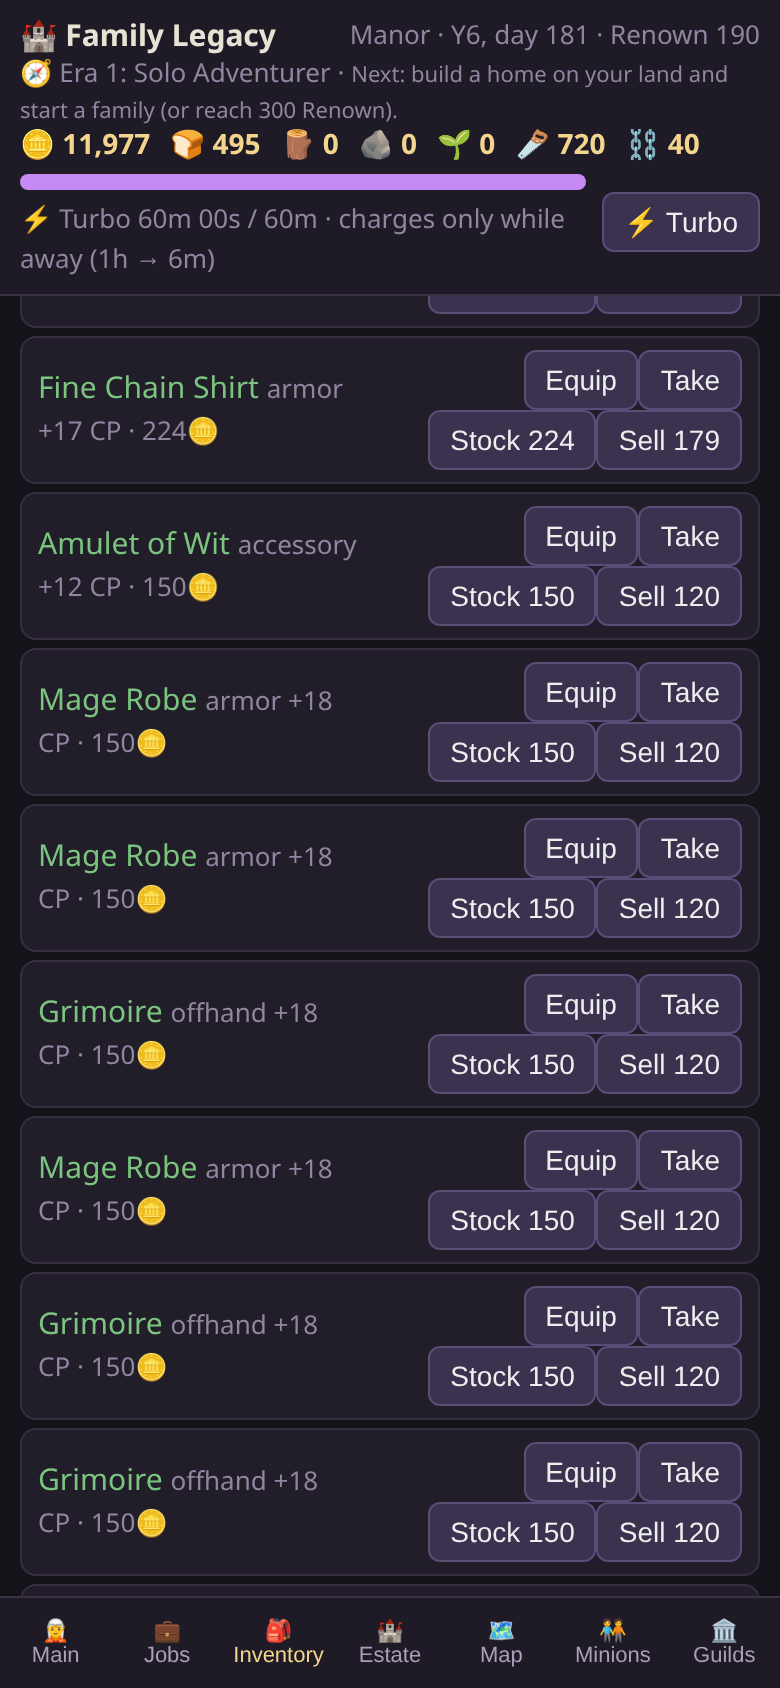
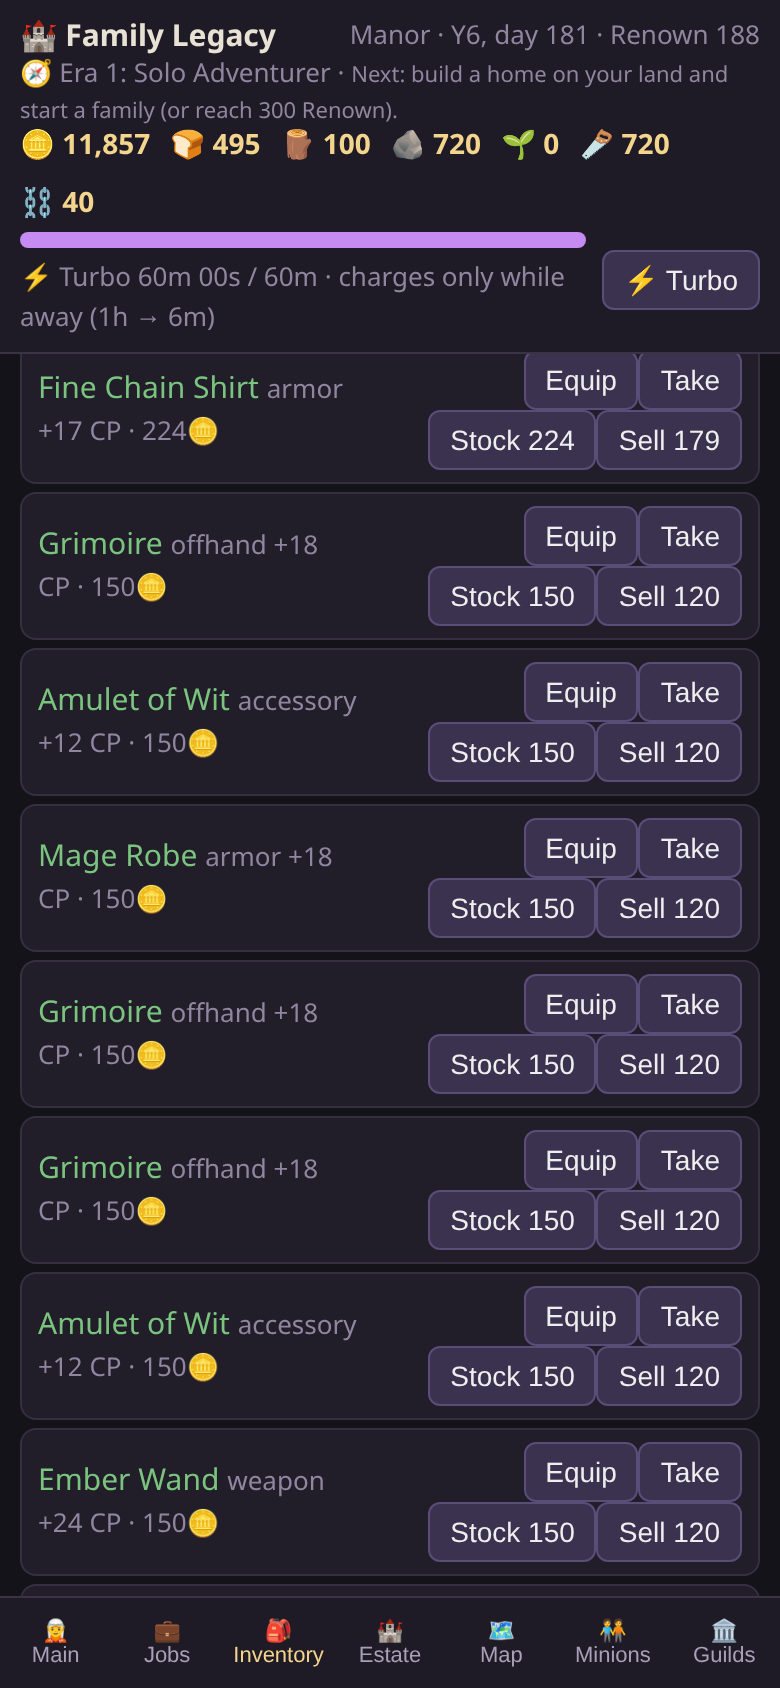
Update Family Legacy with resource reserves and station pauses.
Replace the static game with the latest build, including resource reserves and station pause toggles, and keep the existing Pages workflow.

diff --git a/js/main.js b/js/main.js
@@ -86,13 +86,14 @@ function landShop(where){ return D.estate.lands.filter(l=>!s.land.includes(l.id)
 function pieceRow(p,btn){ return `<div class="row" style="margin:3px 0"><span>${p.icon} ${p.name} <span class="muted">${p.desc||Object.entries(p.bonus).map(([k,v])=>k+': '+v).join(', ')}</span></span>${btn}</div>`; }
 function estate(){ let h=`<div class="card"><div class="row"><b>🗺 Land</b><span>${E.landUsed(s)}/${E.landSlots(s)} land slots used</span></div><div class="muted">${s.land.map(id=>D.estate.lands.find(l=>l.id===id).name).join(', ')}</div></div>${landShop()}`;
  h+=`<div class="card"><b>📦 Capacity</b><div class="muted">🍞 ${fmt(s.res.food)}/${fmt(E.foodCap(s))} food · materials cap ${fmt(E.matCap(s))} each</div>
- <div class="muted">${Object.entries(D.estate.resourceTiers).map(([n,t])=>`<b>T${n} ${t.name}:</b> ${t.res.length?t.res.map(k=>`${RI[k]||''}${k} ${fmt(s.res[k]||0)}`).join(' · '):t.planned.join(', ')}`).join('<br>')}</div><div class="muted">Family eats ${E.living(s).length}🍞/day · followers eat ${E.minionFood(s)}🍞/day · beds ${E.living(s).length}/${E.bedrooms(s)} · follower bunks ${E.housingUsed(s,'bunk')}/${E.housingCap(s,'bunk')}</div></div>`;
+ <div class="muted">${Object.entries(D.estate.resourceTiers).map(([n,t])=>`<b>T${n} ${t.name}:</b> ${t.res.length?t.res.map(k=>`${RI[k]||''}${k} ${fmt(s.res[k]||0)}`).join(' · '):t.planned.join(', ')}`).join('<br>')}</div><div class="row" style="flex-wrap:wrap;gap:6px;margin:4px 0"><span class="muted">Keep in reserve (stations never use below):</span>${Object.keys(E.DEFAULT_RESERVE).map(k=>`<label class="muted">${RI[k]||''}${k} <input type="number" min="0" step="10" style="width:56px" data-a="reserve" data-v="${k}" value="${E.reserveOf(s,k)}"></label>`).join('')}</div><div class="muted">Family eats ${E.living(s).length}🍞/day · followers eat ${E.minionFood(s)}🍞/day · beds ${E.living(s).length}/${E.bedrooms(s)} · follower bunks ${E.housingUsed(s,'bunk')}/${E.housingCap(s,'bunk')}</div></div>`;
  const syn=E.allSynergies(s); h+=`<h3>✨ Active synergies (${syn.length})</h3>`+(syn.length?syn.map(y=>`<div>${y.icon} <b>${y.name}</b> <span class="muted">${y.desc} · in ${E.structDef(s.structures.find(x=>x.uid===y.where).type).name}</span></div>`).join(''):'<div class="muted">Place related pieces in the same building: '+D.estate.synergies.map(y=>y.pieces.map(p=>E.pieceDef(p).name).join(' + ')).join(' · ')+'</div>');
  h+=`<h3>🛖 Buildings & stations</h3>`;
  s.structures.forEach((st,k)=>{ const d=E.structDef(st.type), nx=D.estate.structures.find(x=>x.upgradeFrom===st.type), ui=E.upgradeIssue(s,st.uid); const syn=E.activeSynergies(st);
   h+=`<div class="card"><div class="row"><b>${d.icon} ${d.name} #${k+1}</b><span class="muted">Lv ${d.level||1} (+${((d.level||1)-1)*5}% to furniture) · ${st.pieces.length}/${d.slots} slots · ${d.land} land</span></div>${d.builtin?`<div class="muted">Built-in: houses ${d.builtin.housing.bunk} followers</div>`:''}${syn.length?`<div>${syn.map(y=>`<span class="tb" style="border-color:#d9b44a">${y.icon} ${y.name}</span>`).join('')}</div>`:''}
   ${st.pieces.map(pid=>{const p=E.pieceDef(pid);const rates=E.processRates(s,st,pid);const t=E.pieceTier(pid),nt=D.estate.pieceTiers[t+1],ui=E.pieceUpIssue(s,st.uid,pid);
-   return `<div class="row" style="margin:3px 0"><span>${p.icon} ${p.name} <span class="tb">${E.tierName(pid)}</span> <span class="muted">${p.desc} · ×${E.pieceMult(st,pid).toFixed(2)} effect${rates.length?' · '+rates.map(r=>r.rate+' '+r.out+'/day').join(', '):''}</span></span><span>${nt?`<button class="b" data-a="uppiece" data-v="${st.uid}" data-w="${pid}" ${ui?'disabled':''}>→ ${nt.name} ${costStr(nt.cost)}</button>`:''}<button class="b" data-a="unpiece" data-v="${st.uid}" data-w="${pid}">Remove</button></span></div>`}).join('')}
+   const pz=E.isPaused(s,st.uid,pid);
+   return `<div class="row" style="margin:3px 0;${pz?'opacity:.55':''}"><span>${p.icon} ${p.name} <span class="tb">${E.tierName(pid)}</span>${rates.length?` <span class="tb" style="border-color:${pz?'#c55':'#5c5'}">${pz?'⏸ Paused':'▶ Running'}</span>`:''} <span class="muted">${p.desc} · ×${E.pieceMult(st,pid).toFixed(2)} effect${rates.length?' · '+rates.map(r=>r.rate+' '+r.out+'/day').join(', '):''}</span></span><span>${rates.length?`<button class="b" data-a="toggle" data-v="${st.uid}" data-w="${pid}">${pz?'Resume':'Pause'}</button>`:''}${nt?`<button class="b" data-a="uppiece" data-v="${st.uid}" data-w="${pid}" ${ui?'disabled':''}>→ ${nt.name} ${costStr(nt.cost)}</button>`:''}<button class="b" data-a="unpiece" data-v="${st.uid}" data-w="${pid}">Remove</button></span></div>`}).join('')}
   ${E.freeSlots(s,st)>0?`<div class="row" style="margin-top:4px"><select data-a="pickpiece" data-v="${st.uid}"><option value="">+ Place a piece…</option>${s.pieceStore.filter((x,i,a)=>a.indexOf(x)===i).map(pid=>`<option value="store:${pid}">📦 ${E.pieceDef(pid).name} [${E.tierName(pid)}] (from storage)</option>`).join('')}${[...D.estate.pieces,...D.furniture].map(p=>`<option value="${p.id}" ${E.placeIssue(s,st.uid,p.id)?'disabled':''}>${p.icon} ${p.name} – ${costStr(p.cost)}${E.placeIssue(s,st.uid,p.id)==='already here'?' (here)':E.pieceLock(s,p)?' 🔒 '+E.pieceLock(s,p):''}</option>`).join('')}</select></div>`:''}
   ${nx?`<div class="row" style="margin-top:4px"><span class="muted">Upgrade → ${nx.name} (${nx.slots} slots, ${nx.land} land)</span><button class="b" data-a="upstruct" data-v="${st.uid}" ${ui?'disabled':''}>${ui&&ui!=='cannot afford'?'🔒 '+ui:costStr(nx.cost)}</button></div>`:''}</div>`; });
  h+=`<div class="muted">Build new:</div>`+D.estate.structures.filter(d=>!d.upgradeFrom).map(d=>{const iss=E.structIssue(s,d.id);return `<div class="card row" style="padding:6px 8px;margin:4px 0"><span>${d.icon} ${d.name} <span class="muted">${d.land} land · ${d.desc}</span></span><button class="b" data-a="struct" data-v="${d.id}" ${iss?'disabled':''}>${iss&&iss!=='cannot afford'?'🔒 '+iss:costStr(d.cost)}</button></div>`}).join('');
@@ -213,13 +214,14 @@ document.addEventListener('click',e=>{ const t=e.target.closest('[data-tab]'); i
  const b=e.target.closest('button[data-a],a[data-a]'); if(!b) return; const a=b.dataset.a, v=b.dataset.v, m=E.active(s);
  ({turbo:()=>E.toggleTurbo(s),train:()=>E.setAction(s,{type:'train',target:v}),sheet:()=>{sheetOpen=!sheetOpen},job:()=>E.setAction(s,{type:'job',target:v}),activity:()=>E.setAction(s,{type:'activity',target:v}),rest:()=>E.setAction(s,{type:'rest'}),
   quest:()=>{E.setAction(s,{type:'quest',target:v});},court:()=>E.setAction(s,{type:'court',target:v}),gift:()=>E.giveGift(s,v,b.dataset.w),propose:()=>E.propose(s,v),
-  evolve:()=>E.evolve(s,m,v),build:()=>E.build(s,v),struct:()=>E.buildStructure(s,v),upstruct:()=>E.upgradeStructure(s,v),unpiece:()=>E.removePiece(s,v,b.dataset.w),uppiece:()=>E.upgradePiece(s,v,b.dataset.w),equip:()=>E.equip(s,m,v),equipbag:()=>E.equip(s,m,v,'bag'),unequip:()=>E.unequip(s,m,v),tobag:()=>E.moveItem(s,m,v,true),tovault:()=>E.moveItem(s,m,v,false),buy:()=>E.buyItem(s,v,b.dataset.w),sellres:()=>E.sellRes(s,v,b.dataset.w,10),rumor:()=>E.rumor(s,v),sellallres:()=>E.sellAllRes(s,v,b.dataset.w),bulksell:()=>E.sellMany(s,curList()),bulklist:()=>curList().forEach(id=>E.listForSale(s,id)),list:()=>E.listForSale(s,v),unlist:()=>E.unlist(s,v),craft:()=>E.setAction(s,{type:'craft',target:v}),mequip:()=>E.equipMinion(s,v,b.dataset.w),munequip:()=>E.unequipMinion(s,v,b.dataset.w),land:()=>E.buyLand(s,v),room:()=>E.addRoom(s,v),unroom:()=>E.removeRoom(s,+v),advjoin:()=>E.joinAdventurers(s,m),advrank:()=>E.advRankUp(s,m),advbuy:()=>E.buyAdvItem(s,m,v),join:()=>E.joinGuild(s,m,v),rankup:()=>E.rankUp(s,m,v||undefined),gbuy:()=>E.buyGuildItem(s,m,v),hire:()=>E.hire(s,v,b.dataset.w),dismiss:()=>E.dismiss(s,v),gather:()=>E.setAction(s,{type:'gather',target:v}),sell:()=>E.sell(s,v),switch:()=>E.switchTo(s,+v),
+  evolve:()=>E.evolve(s,m,v),build:()=>E.build(s,v),struct:()=>E.buildStructure(s,v),upstruct:()=>E.upgradeStructure(s,v),unpiece:()=>E.removePiece(s,v,b.dataset.w),uppiece:()=>E.upgradePiece(s,v,b.dataset.w),toggle:()=>E.togglePiece(s,v,b.dataset.w),equip:()=>E.equip(s,m,v),equipbag:()=>E.equip(s,m,v,'bag'),unequip:()=>E.unequip(s,m,v),tobag:()=>E.moveItem(s,m,v,true),tovault:()=>E.moveItem(s,m,v,false),buy:()=>E.buyItem(s,v,b.dataset.w),sellres:()=>E.sellRes(s,v,b.dataset.w,10),rumor:()=>E.rumor(s,v),sellallres:()=>E.sellAllRes(s,v,b.dataset.w),bulksell:()=>E.sellMany(s,curList()),bulklist:()=>curList().forEach(id=>E.listForSale(s,id)),list:()=>E.listForSale(s,v),unlist:()=>E.unlist(s,v),craft:()=>E.setAction(s,{type:'craft',target:v}),mequip:()=>E.equipMinion(s,v,b.dataset.w),munequip:()=>E.unequipMinion(s,v,b.dataset.w),land:()=>E.buyLand(s,v),room:()=>E.addRoom(s,v),unroom:()=>E.removeRoom(s,+v),advjoin:()=>E.joinAdventurers(s,m),advrank:()=>E.advRankUp(s,m),advbuy:()=>E.buyAdvItem(s,m,v),join:()=>E.joinGuild(s,m,v),rankup:()=>E.rankUp(s,m,v||undefined),gbuy:()=>E.buyGuildItem(s,m,v),hire:()=>E.hire(s,v,b.dataset.w),dismiss:()=>E.dismiss(s,v),gather:()=>E.setAction(s,{type:'gather',target:v}),sell:()=>E.sell(s,v),switch:()=>E.switchTo(s,+v),
   class:()=>E.chooseClass(s,s.pendingClass[0],v),close:()=>{report=null},
   export:()=>{prompt('Copy your save:',btoa(unescape(encodeURIComponent(E.serialize(s)))));},
   import:()=>{const t=prompt('Paste save:'); if(t){try{s=E.deserialize(decodeURIComponent(escape(atob(t))));}catch(err){alert('Invalid save');}}},
   reset:()=>{ if(s.gameOver||confirm('Abandon this lineage and start over?')){ s=E.newGame(); report=null; } }})[a]?.();
  save(); lastHTML=''; render(); });
 document.addEventListener('change',e=>{ const el=e.target; const id=+el.dataset.v; const m=s.members.find(x=>x.id===id);
+ if(el.dataset.a==='reserve'){ E.setReserve(s,el.dataset.v,el.value); }
  if(el.dataset.a==='invf'){ invF[el.dataset.v]=el.value; }
  if(el.dataset.a==='mequipsel'&&el.value){ E.equipMinion(s,el.dataset.v,el.value); }
  if(el.dataset.a==='pickpiece'&&el.value){ const st=el.value.startsWith('store:'); E.placePiece(s,el.dataset.v,el.value.replace('store:',''),st); }

diff --git a/js/engine.js b/js/engine.js
@@ -32,7 +32,7 @@ export function newGame(now=Date.now()){ const _s=_newGame(now); _s.land=[]; _s.
 function _newGame(now){
   const s={v:SAVE_VERSION,day:0,nextId:1,members:[],activeId:1,head:1,
     res:{coin:50,food:60,wood:0,stone:0,herbs:0},revealed:[],buildings:{},furniture:[],vault:['rusty_sword','padded_vest'],
-    log:[],turbo:{charge:0,on:false},lastSave:now,forSale:[],saleProg:0,unlocks:[],doneQuests:[],specialGranted:[],minions:[],repLevel:0,gameOver:false,suitors:[],renown:0,deeds:[],acc:0,pendingClass:[]};
+    log:[],turbo:{charge:0,on:false},lastSave:now,reserve:{...DEFAULT_RESERVE},paused:[],forSale:[],saleProg:0,unlocks:[],doneQuests:[],specialGranted:[],minions:[],repLevel:0,gameOver:false,suitors:[],renown:0,deeds:[],acc:0,pendingClass:[]};
   for(const b of D.buildings) s.buildings[b.id]=b.start;
   const f=newMember(s,{age:15}); s.members.push(f);
   f.action={type:'train',target:'swordsmanship',progress:0};
@@ -141,8 +141,14 @@ export function operatorLvl(s,skill){ if(!skill) return 0; const sp=ES().skillPr
 export const skillSpeed=(s,p)=>1+ES().skillProcess.speedPerLvl*operatorLvl(s,p&&p.skill);
 export const skillYield=(s,p)=>1+ES().skillProcess.yieldPerLvl*operatorLvl(s,p&&p.skill);
 export const resTier=k=>+(Object.entries(ES().resourceTiers).find(([,t])=>t.res.includes(k))||[0])[0];
-function processDay(s,mul=1){ for(const st of s.structures||[]){ const syn=activeSynergies(st); for(const p of st.pieces.map(id=>scaledPiece(st,id))) for(const pr0 of (p&&p.bonus.processes)||[]){ const pr={...pr0,rate:pr0.rate*skillSpeed(s,p)}; const yl=skillYield(s,p);
-  let n=pr.rate*mul*syn.reduce((a,y)=>a*((y.bonus.processMult||{})[pr.out]||1),1); for(const[k,v]of Object.entries(pr.in)) n=Math.min(n,(s.res[k]||0)/v); if(n<=0) continue;
+export const DEFAULT_RESERVE={wood:50,stone:50,ore:0,copperore:0,hides:0,herbs:0};
+export const reserveOf=(s,k)=>((s.reserve||{})[k]||0);
+export function setReserve(s,k,n){ if(!(k in DEFAULT_RESERVE)) return false; s.reserve[k]=Math.max(0,Math.floor(+n||0)); return true; }
+const pkey=(uid,id)=>uid+':'+baseId(id);
+export const isPaused=(s,uid,id)=>(s.paused||[]).includes(pkey(uid,id));
+export function togglePiece(s,uid,id){ const k=pkey(uid,id); const i=s.paused.indexOf(k); if(i>=0) s.paused.splice(i,1); else s.paused.push(k); return i<0; }
+function processDay(s,mul=1){ for(const st of s.structures||[]){ const syn=activeSynergies(st); for(const p of st.pieces.filter(id=>!isPaused(s,st.uid,id)).map(id=>scaledPiece(st,id))) for(const pr0 of (p&&p.bonus.processes)||[]){ const pr={...pr0,rate:pr0.rate*skillSpeed(s,p)}; const yl=skillYield(s,p);
+  let n=pr.rate*mul*syn.reduce((a,y)=>a*((y.bonus.processMult||{})[pr.out]||1),1); for(const[k,v]of Object.entries(pr.in)) n=Math.min(n,Math.max(0,(s.res[k]||0)-reserveOf(s,k))/v); if(n<=0) continue;
   for(const[k,v]of Object.entries(pr.in)) s.res[k]-=v*n; s.res[pr.out]=(s.res[pr.out]||0)+n*yl; } } }
 export const processRates=(s,st,pid)=>((scaledPiece(st,pid).bonus.processes)||[]).map(pr=>({out:pr.out,rate:Math.round(pr.rate*skillSpeed(s,pieceDef(pid))*skillYield(s,pieceDef(pid))*activeSynergies(st).reduce((a,y)=>a*((y.bonus.processMult||{})[pr.out]||1),1)*100)/100}));
 export const processRate=(s,st,pid)=>{ const r=processRates(s,st,pid); return r.length?r[0].rate:0; };
@@ -360,7 +366,7 @@ function minionDay(s){
 
 // ---- guilds
 export function classGuild(cid){ let c=D.classes.find(x=>x.id===cid); while(c&&c.from) c=D.classes.find(x=>x.id===c.from); return c&&(D.guilds.guilds.find(g=>g.grantsClass===c.id||g.profession===c.id)||(D.guilds.adventurers.grantsClass===c.id?D.guilds.adventurers:null)); }
-export function normalize(s){ if(!s.unlocks) s.unlocks=[]; s.pendingClass=[];
+export function normalize(s){ if(!s.unlocks) s.unlocks=[]; s.reserve={...DEFAULT_RESERVE,...(s.reserve||{})}; if(!Array.isArray(s.paused)) s.paused=[]; s.pendingClass=[];
   for(const m of s.members){ if(m.guild&&m.guild.id==='hearth'){ m.craft={id:'hearth',rank:m.guild.rank,rep:m.guild.rep}; m.guild=null; if(!m.prof) m.prof='artisan'; delete m.title; }
     if(m.cls&&!m.guild&&(D.classes.find(c=>c.id===m.cls)||{}).line==='adventurer'){ if(!m.adv) m.adv={rank:0,rep:0}; }
     else if(m.cls&&!m.guild){ const g=classGuild(m.cls); if(g){ m.guild={id:g.id,rank:0,rep:0}; log(s,`📜 ${m.name} (${cls(m).name}) was enrolled in the ${g.name}.`); } } }

diff --git a/README.md b/README.md
@@ -21,3 +21,4 @@ The header shows your era (Solo Adventurer → Established Family → Ruling Pow
 - **T1 Raw:** wood, stone, iron ore, copper ore, herbs, hides. **T2 Processed:** planks (Saw Table), blocks (new Mason's Table), iron ingots + copper (Forge), potions, leather (new Tanning Rack), cloth. **T3 Refined:** reserved (fine lumber, dressed stone, steel).
 - Stations process automatically, and the best operator's skill scales them (each skill level adds +3% speed and +1% yield). The operator is the best family member aged 12+ in the station's skill (Carpentry for the Saw Table, Masonry for the Mason's Table, Smithing for the Forge, Alchemy, Tailoring), or a Crafting minion (aptitude ×10 levels).
 - Costs climb by tier: Shack/Bunkhouse use wood+stone, Cabin planks+blocks, House/Hall planks+blocks+ingots. Furniture: Sturdy uses planks, Fine and Masterwork blocks+ingots.
+- **Reserves and pausing:** the Capacity card sets a per-resource reserve for raw materials (wood and stone default to 50, others 0). Stations never consume below it. Each processing station has a Pause/Resume button; a paused station neither consumes nor produces. A station stays paused when its furniture is upgraded.
